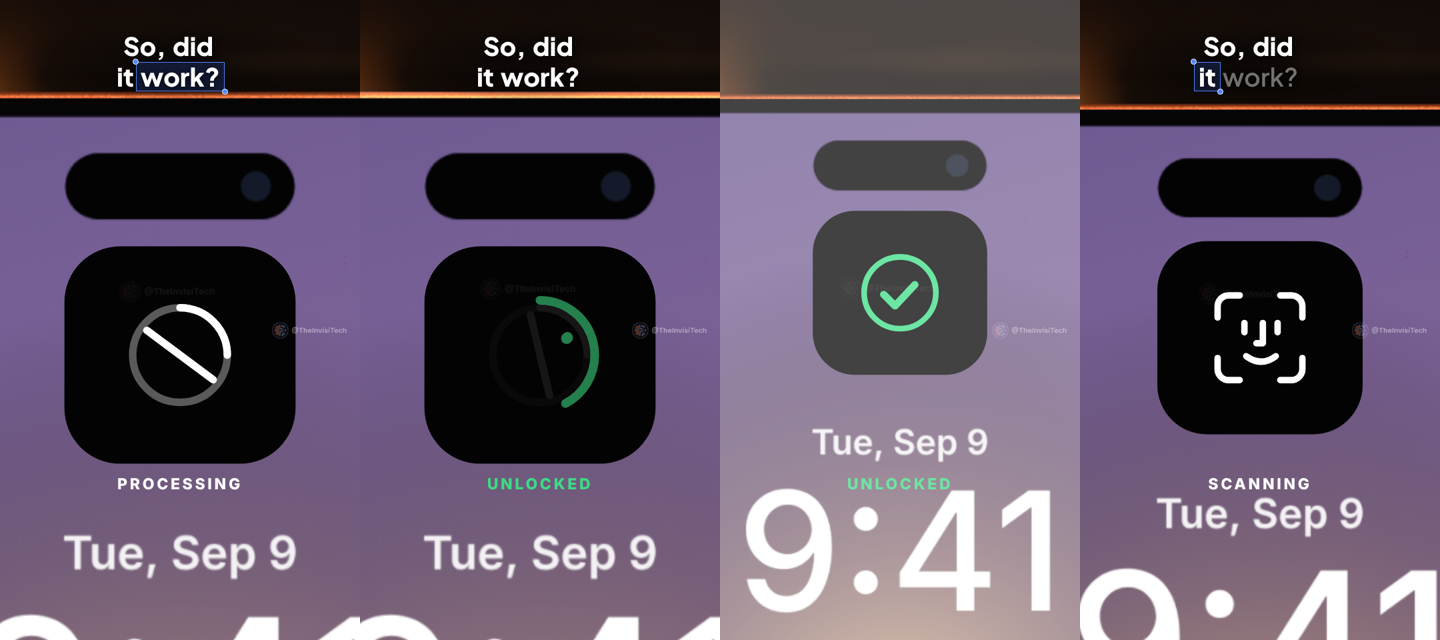
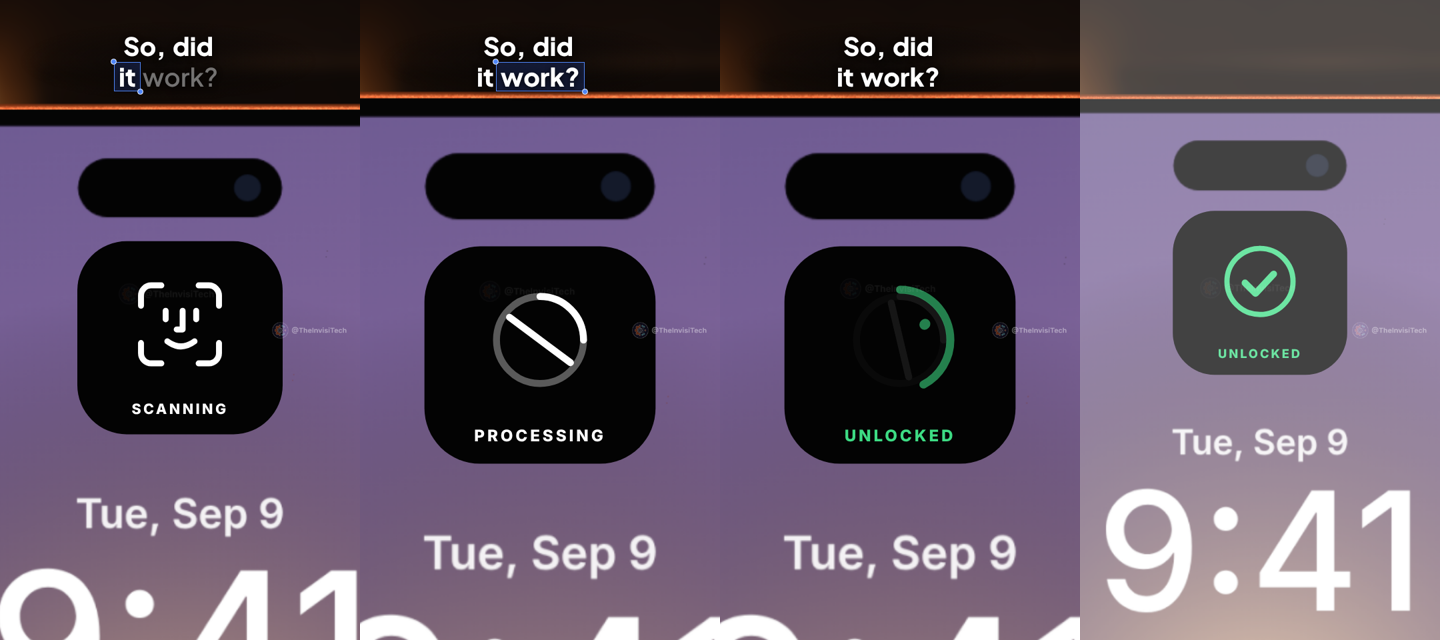
Outro: SCANNING / PROCESSING / UNLOCKED written inside the Face ID box
Claude-Session: https://claude.ai/code/session_01GXcKc5WnFrVWBsHLe8YpAy

diff --git a/face-id/mirror-short/src/scenes/Reveal.tsx b/face-id/mirror-short/src/scenes/Reveal.tsx
@@ -53,6 +53,8 @@ export const Reveal: React.FC = () => {
         <svg width={1080} height={1920} style={{ position: 'absolute', inset: 0 }}>
           <rect x={ISL.x - ISL.w / 2} y={top} width={ISL.w} height={bh} rx={ISL.h / 2 + (ISL.w * 0.24 - ISL.h / 2) * e} fill="#030303" opacity={e} />
           <g transform={`translate(${ISL.x} ${top + bh / 2}) scale(${(ISL.w / 215) * e})`} fill="none" strokeLinecap="round" strokeLinejoin="round">
+            <text y={80} textAnchor="middle" fill={fr >= U ? '#3ddc84' : '#fff'} stroke="none" opacity={ramp(fr, 16, 20)} style={{ font: `800 15px ${FONT}`, letterSpacing: '0.16em' }}>{fr >= U ? 'UNLOCKED' : fr >= P ? 'PROCESSING' : 'SCANNING'}</text>
+            <g transform="translate(0 -14) scale(0.92)">
             {/* 1 · scanning: the Face ID glyph */}
             <g opacity={scanO} stroke="#fff" strokeWidth={7} transform={`scale(${1 + 0.04 * Math.sin(fr / 2)})`}>
               <path d="M -46 -22 V -34 a 12 12 0 0 1 12 -12 H -22 M 22 -46 H 34 a 12 12 0 0 1 12 12 V -22 M 46 22 V 34 a 12 12 0 0 1 -12 12 H 22 M -22 46 H -34 a 12 12 0 0 1 -12 -12 V 22" />
@@ -69,14 +71,11 @@ export const Reveal: React.FC = () => {
               <circle r={44} strokeWidth={7} strokeDasharray={277} strokeDashoffset={277 * (1 - ramp(fr, U - 1, U + 5, 0, 1, o3))} transform="rotate(-90)" />
               <path d="M -20 2 L -6 16 L 22 -14" strokeWidth={9} strokeDasharray={60} strokeDashoffset={60 * (1 - tick)} />
             </g>
+            </g>
           </g>
         </svg>
       </div>
       {mo > 0 && <AbsoluteFill style={{ opacity: mo, transformOrigin: '771px 618px', transform: `translate(${(540 - 771) * mz}px, ${(960 - 618) * mz}px) scale(${1 + 6.2 * mz})` }}><Img src={staticFile('hook_first.png')} style={{ width: 1080, height: 1920 }} /></AbsoluteFill>}
-      {/* state name under the close-up, like the reference: SCANNING / PROCESSING / UNLOCKED */}
-      <div style={{ position: 'absolute', left: 0, right: 0, top: 1430, textAlign: 'center', opacity: ramp(fr, 16, 20) * (1 - ramp(fr, U + 4, U + 8)), font: `800 46px/1 ${FONT}`, letterSpacing: '0.16em', color: fr >= U ? '#3ddc84' : '#fff' }}>
-        {fr >= U ? 'UNLOCKED' : fr >= P ? 'PROCESSING' : 'SCANNING'}
-      </div>
       <AbsoluteFill style={{ backgroundColor: '#fff', opacity: 0.25 * ramp(fr, U + 2, U + 4) * (1 - ramp(fr, U + 4, U + 11)) }} />
       {/* the result, then the question for the viewer */}
       <div style={{ position: 'absolute', left: 0, right: 0, top: 1690, textAlign: 'center', opacity: ramp(fr, U + 12, U + 18) * (1 - ask), transform: `scale(${1.2 - 0.2 * ramp(fr, U + 12, U + 20, 0, 1, out3)})` }}>
